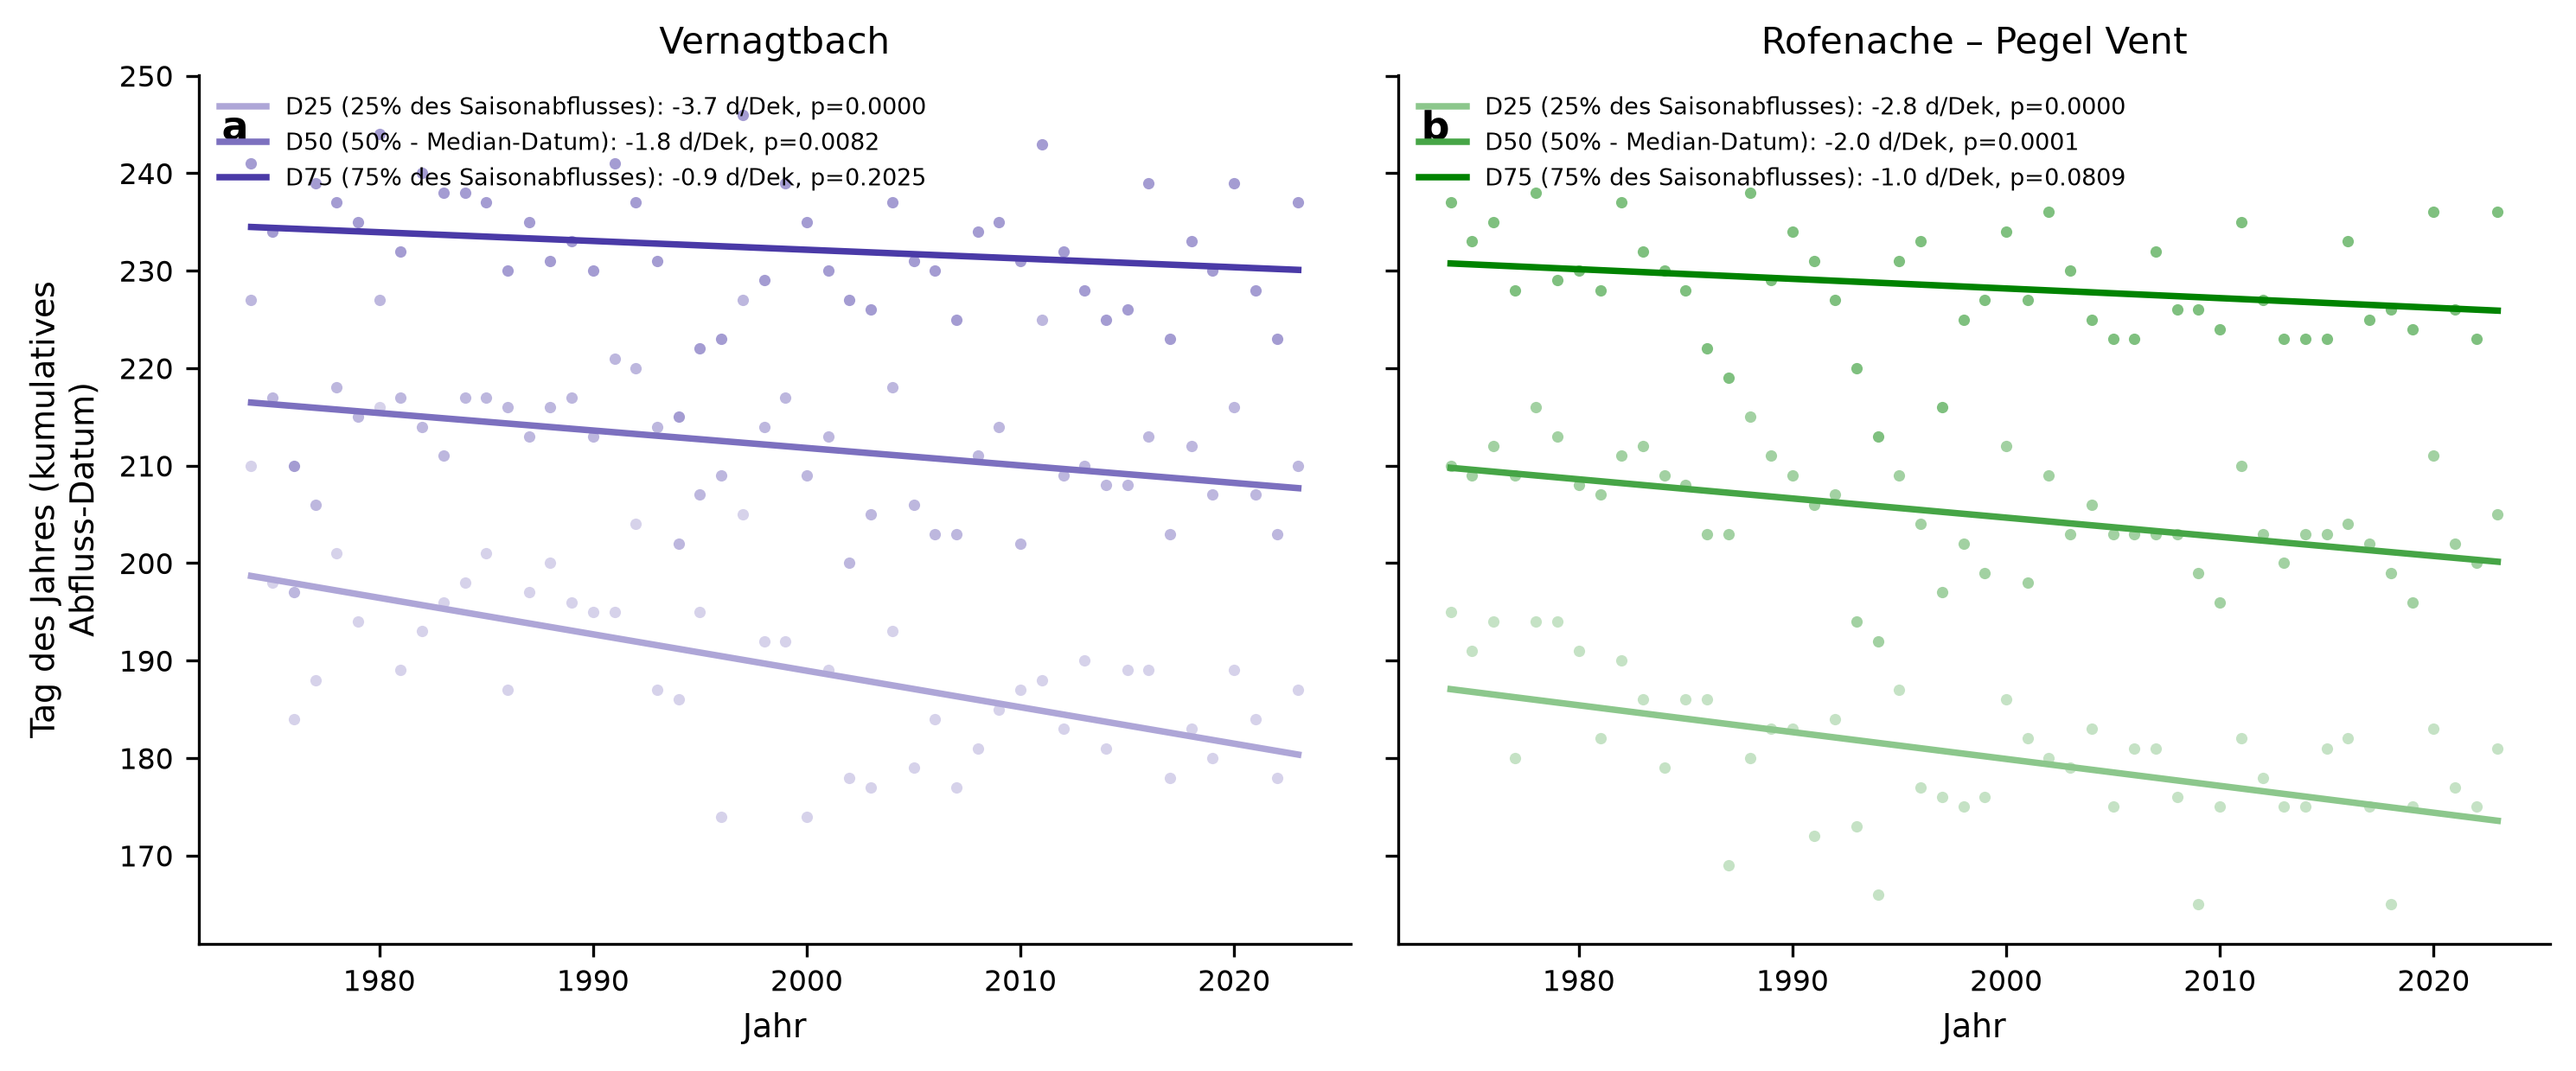
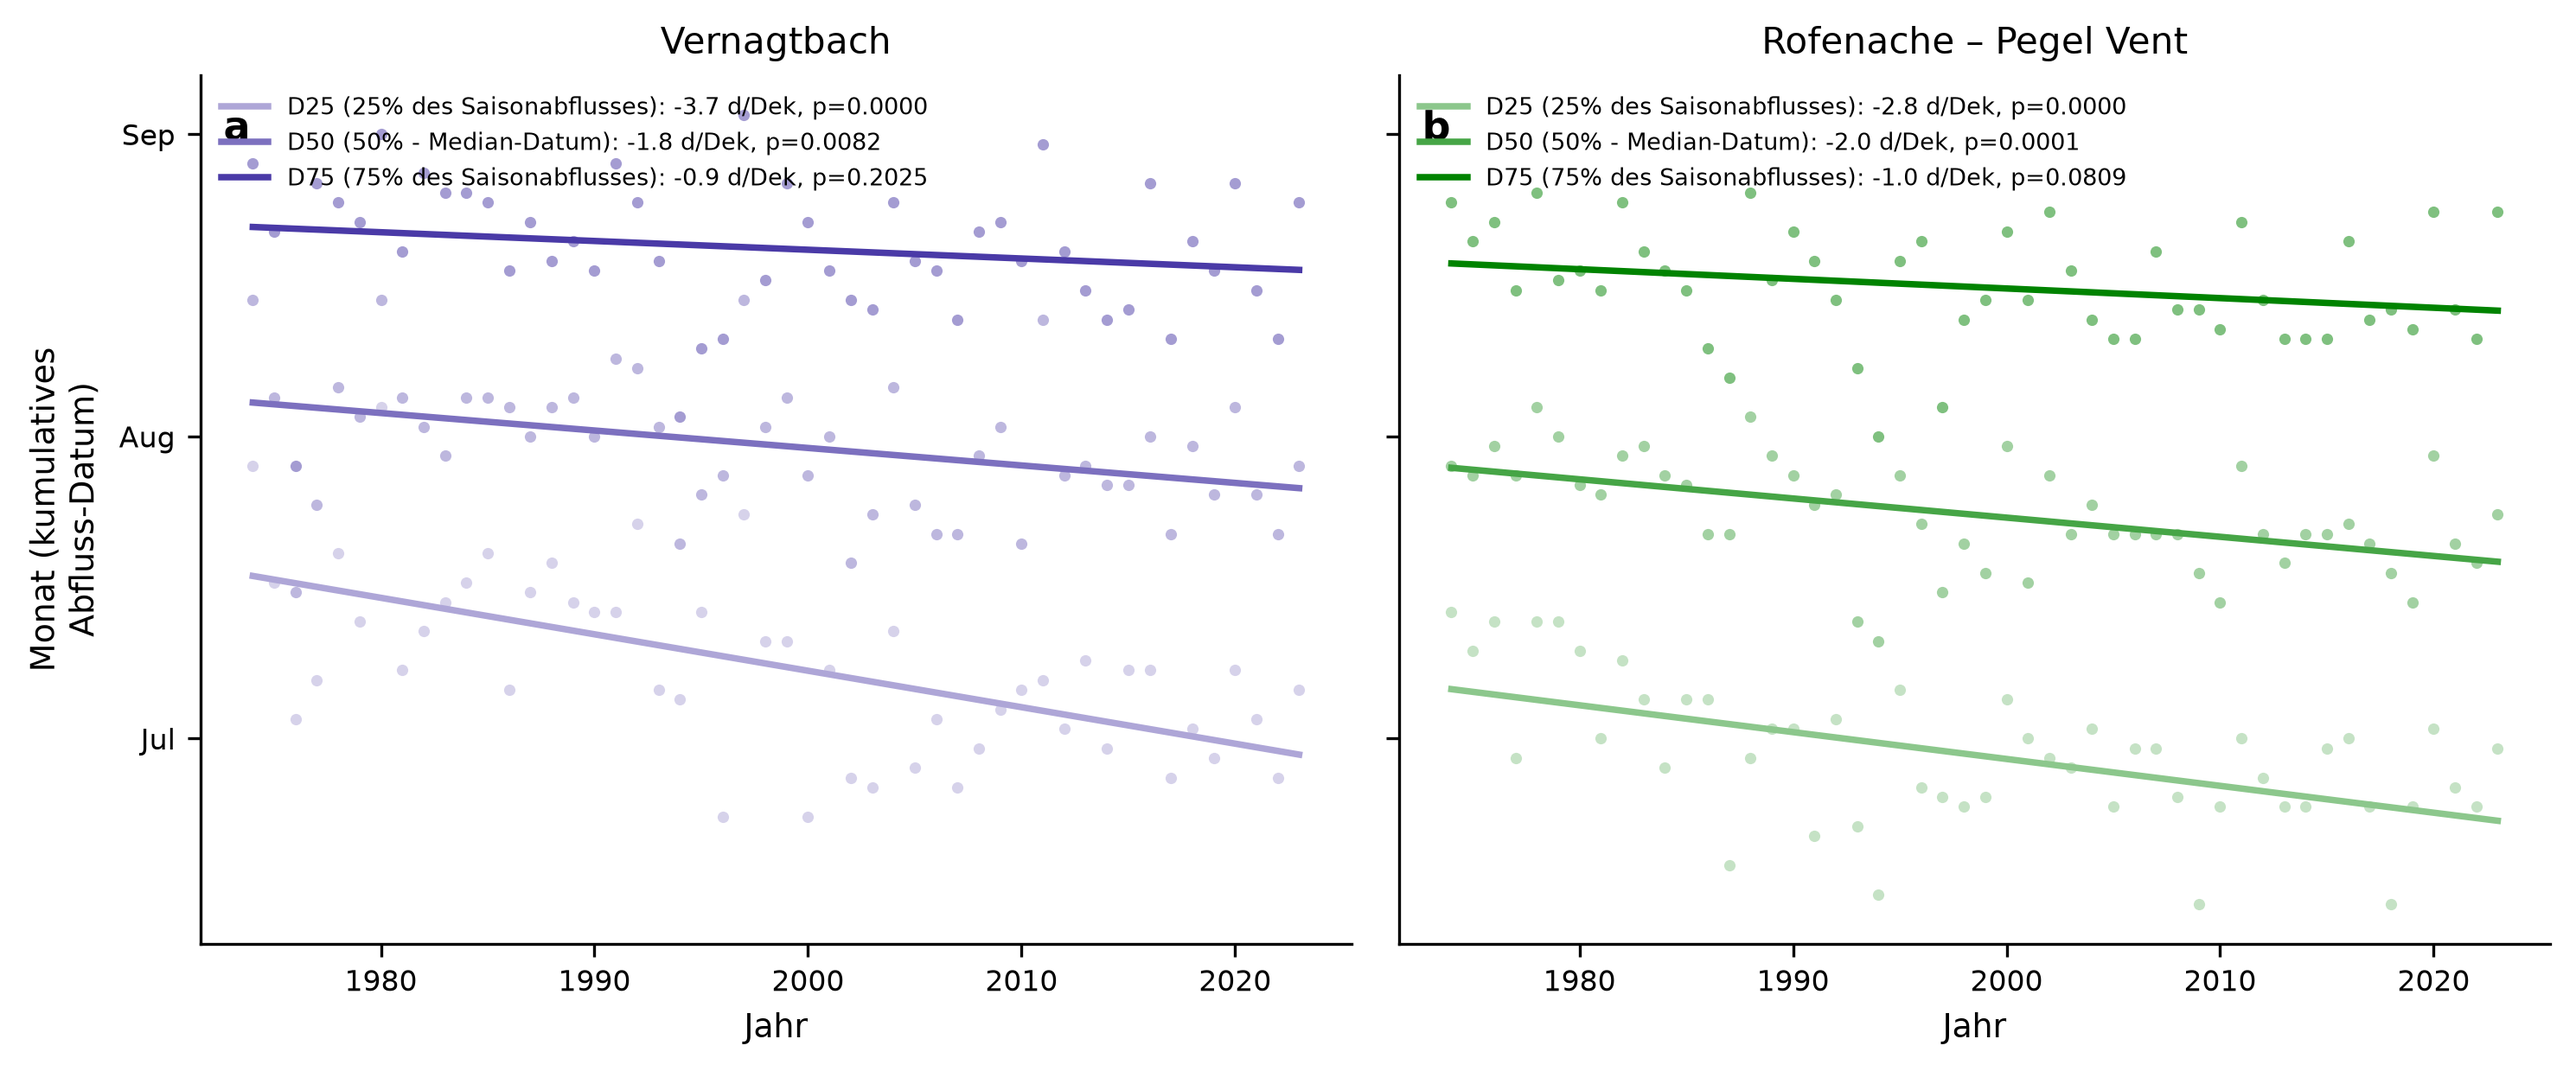
Label day-of-year axes with month names across all figures
Adds a shared _month_ticks/set_month_x|yaxis helper and applies it to
every figure with a day-of-year axis (fig7, fig9, fig9b, fig10, fig11,
fig12, fig12b) - easier to read than raw day-of-year numbers.

diff --git a/scripts/04_make_figures.py b/scripts/04_make_figures.py
@@ -38,6 +38,37 @@ def set_style():
     })
 
 
+MONTH_ABBR_DE = {1: "Jan", 2: "Feb", 3: "Mär", 4: "Apr", 5: "Mai", 6: "Jun",
+                  7: "Jul", 8: "Aug", 9: "Sep", 10: "Okt", 11: "Nov", 12: "Dez"}
+
+
+def _month_ticks(vmin, vmax):
+    """Day-of-year (non-leap reference year) of the 1st of each month that
+    falls within [vmin, vmax], plus its German abbreviation - used to label
+    day-of-year axes with month names instead of raw numbers."""
+    ticks, labels = [], []
+    for m in range(1, 13):
+        doy = pd.Timestamp(2001, m, 1).dayofyear
+        if vmin - 3 <= doy <= vmax + 3:
+            ticks.append(doy)
+            labels.append(MONTH_ABBR_DE[m])
+    return ticks, labels
+
+
+def set_month_xaxis(ax):
+    vmin, vmax = ax.get_xlim()
+    ticks, labels = _month_ticks(vmin, vmax)
+    ax.set_xticks(ticks)
+    ax.set_xticklabels(labels)
+
+
+def set_month_yaxis(ax):
+    vmin, vmax = ax.get_ylim()
+    ticks, labels = _month_ticks(vmin, vmax)
+    ax.set_yticks(ticks)
+    ax.set_yticklabels(labels)
+
+
 def load_master():
     df = pd.read_excel(MASTER_XLSX, sheet_name=MASTER_SHEET)
     df["time"] = pd.to_datetime(df["time"])
@@ -88,7 +119,8 @@ def fig_peak_day_running_window(df, smoothing_window=9):
         ax.set_xlabel("Jahr")
         ax.text(0.02, 0.96, lab, transform=ax.transAxes, fontsize=11, fontweight="bold", va="top")
         ax.legend(loc="upper left", frameon=False)
-    axes[0].set_ylabel("Tag des Jahres mit\nmaximalem Abfluss (9d-geglättet)")
+        set_month_yaxis(ax)
+    axes[0].set_ylabel("Monat mit\nmaximalem Abfluss (9d-geglättet)")
     fig.tight_layout()
     fig.savefig(f"{OUT_DIR}/fig10_peak_day_running_window.png", dpi=300, bbox_inches="tight")
     plt.close(fig)
@@ -132,7 +164,9 @@ def fig_small_multiples(df, col, color, title, outfile):
         ax.set_title(lab, fontsize=8)
         ax.set_ylim(0, ymax)
     for ax in axes[-1, :]:
-        ax.set_xlabel("Tag d. J.", fontsize=7)
+        ax.set_xlabel("")
+        set_month_xaxis(ax)
+        ax.tick_params(axis="x", labelrotation=45)
     for ax in axes[:, 0]:
         ax.set_ylabel("Q [m3/s]", fontsize=7)
     fig.suptitle(title, fontsize=10, y=1.02)
@@ -179,7 +213,8 @@ def fig_seasonal_by_period_gradient(df):
             ax.plot(med.index, med.values, color=c, linewidth=1.2, label=pl)
         ax.set_title(title, fontsize=10)
         ax.text(0.0, 1.1, lab, transform=ax.transAxes, fontsize=11, fontweight="bold", va="top", clip_on=False)
-        ax.set_xlabel("Tag des Jahres")
+        ax.set_xlabel("")
+        set_month_xaxis(ax)
     axes[0].set_ylabel(r"Median $Q$ [m$^3$ s$^{-1}$]")
     handles, labels = axes[0].get_legend_handles_labels()
     fig.legend(handles, labels, loc="upper center", bbox_to_anchor=(0.5, 1.1), ncol=5, frameon=False, fontsize=7.5)
@@ -226,7 +261,8 @@ def fig_hump_overlay(df):
             ax.fill_between(med_s.index, q25_s, q75_s, color=c, alpha=0.25, linewidth=0)
             ax.plot(med_s.index, med_s.values, color=c, linewidth=1.8, alpha=alpha, label=label)
         ax.set_title(title, fontsize=10)
-        ax.set_xlabel("Tag des Jahres")
+        ax.set_xlabel("")
+        set_month_xaxis(ax)
         ax.text(0.0, 1.1, lab, transform=ax.transAxes, fontsize=11, fontweight="bold", va="top", clip_on=False)
         ax.legend(loc="upper left", frameon=False)
     axes[0].set_ylabel("Median Q, normiert\nauf Perioden-Maximum")
@@ -284,7 +320,8 @@ def fig_flow_timing_cumulative(df):
         ax.set_xlabel("Jahr")
         ax.text(0.02, 0.96, lab, transform=ax.transAxes, fontsize=11, fontweight="bold", va="top")
         ax.legend(loc="upper left", frameon=False, fontsize=6.5)
-    axes[0].set_ylabel("Tag des Jahres (kumulatives\nAbfluss-Datum)")
+        set_month_yaxis(ax)
+    axes[0].set_ylabel("Monat (kumulatives\nAbfluss-Datum)")
     fig.tight_layout()
     fig.savefig(f"{OUT_DIR}/fig11_flow_timing_cumulative.png", dpi=300, bbox_inches="tight")
     plt.close(fig)
@@ -339,7 +376,8 @@ def fig_cumulative_fraction_curves(df):
             ax.plot(mean_days.values, fractions * 100, color=c, linewidth=1.6, marker="o", markersize=2.5, label=pl)
         ax.set_title(title, fontsize=10)
         ax.text(0.0, 1.1, lab, transform=ax.transAxes, fontsize=11, fontweight="bold", va="top", clip_on=False)
-        ax.set_xlabel("Tag des Jahres")
+        ax.set_xlabel("")
+        set_month_xaxis(ax)
     axes[0].set_ylabel("Kumulativer Saisonabfluss [%]")
     handles, labels = axes[0].get_legend_handles_labels()
     fig.legend(handles, labels, loc="upper center", bbox_to_anchor=(0.5, 1.1), ncol=5, frameon=False, fontsize=7.5)
@@ -383,7 +421,8 @@ def fig_cumulative_fraction_curves_by_year(df):
             ax.plot(row[cols].values, fractions * 100, color=cmap(norm(y)), linewidth=0.8, alpha=0.6)
         ax.set_title(title, fontsize=10)
         ax.text(0.0, 1.08, lab, transform=ax.transAxes, fontsize=11, fontweight="bold", va="top", clip_on=False)
-        ax.set_xlabel("Tag des Jahres")
+        ax.set_xlabel("")
+        set_month_xaxis(ax)
     axes[0].set_ylabel("Kumulativer Saisonabfluss [%]")
     sm = plt.cm.ScalarMappable(cmap=cmap, norm=norm)
     sm.set_array([])
